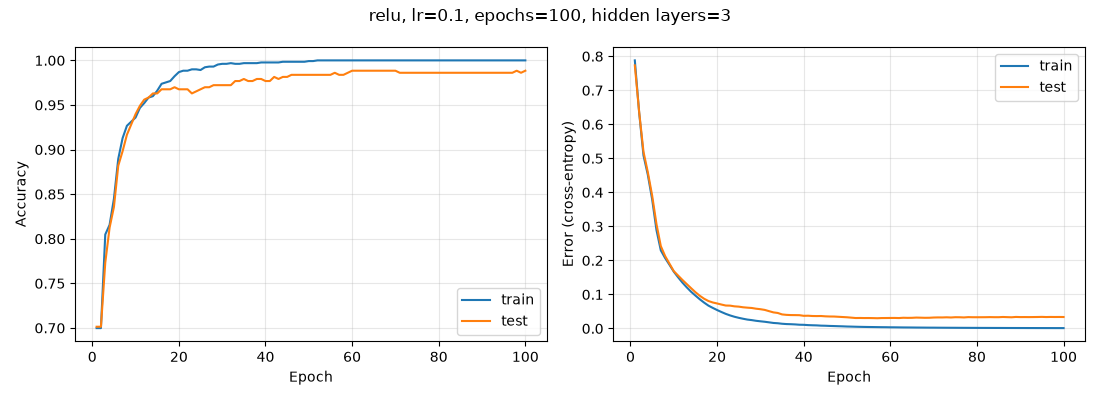
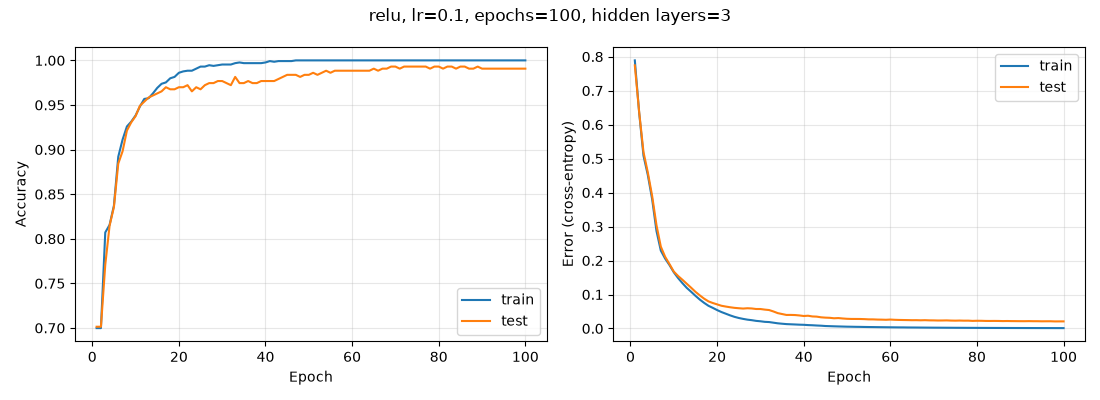
Update to repo

diff --git a/neural_net.py b/neural_net.py
@@ -1,26 +1,38 @@
 #####################################################################################################################
 #   Assignment 2: Neural Network Analysis
-#   Dataset: UCI Car Evaluation  (https://archive.ics.uci.edu/dataset/19/car+evaluation)
-#   Task:    multi-class classification (unacc / acc / good / vgood)
+#   This is a starter code in Python 3.6 for a neural network.
+#   You need to have numpy and pandas installed before running this code.
+#   You need to complete all TODO marked sections
+#   You are free to modify this code in any way you want, but need to mention it
+#       in the README file.
 #
-#   Usage:   python NeuralNet.py --data car.data --out results --seed 42
-#   See README.md for details and for the list of changes made to the starter code.
+#   Dataset: UCI Car Evaluation (https://archive.ics.uci.edu/dataset/19/car+evaluation)
+#   Usage:   python NeuralNet.py                      (loads the data from the public URL below)
+#            python NeuralNet.py /path/to/car.data    (optional: local file or other URL)
+#
 #####################################################################################################################
 
-import argparse
+
 import itertools
 import os
+import sys
 
 import matplotlib
-matplotlib.use("Agg")  # no display needed
+matplotlib.use("Agg")  # save figures to files; no display needed
 import matplotlib.pyplot as plt
 import numpy as np
 import pandas as pd
 from sklearn.metrics import log_loss
 from sklearn.model_selection import train_test_split
 from sklearn.neural_network import MLPClassifier
-from sklearn.preprocessing import StandardScaler
 
+# Public copy of the UCI Car Evaluation data file (no local path needed).
+DATA_URL = "https://raw.githubusercontent.com/SGcoder120/ML-assignment-2/refs/heads/master/car.data"
+OUT_DIR = "results"
+SEED = 42
+NEURONS_PER_LAYER = 16  # fixed number of neurons in every hidden layer
+
+# car.data has no header row, so the column names are supplied here.
 COLUMNS = ["buying", "maint", "doors", "persons", "lug_boot", "safety", "class"]
 
 # All six attributes are ordinal, so they are mapped to integers that preserve their order.
@@ -36,21 +48,15 @@ CLASS_ORDER = ["unacc", "acc", "good", "vgood"]
 
 
 class NeuralNet:
-    def __init__(self, dataFile, header=False, out_dir="results", seed=42,
-                 neurons_per_layer=16, test_size=0.25):
-        # The UCI car.data file has no header row, so column names are supplied here.
-        self.raw_input = pd.read_csv(dataFile, header=0 if header else None,
-                                     names=None if header else COLUMNS)
-        self.out_dir = out_dir
-        self.seed = seed
-        self.neurons_per_layer = neurons_per_layer
-        self.test_size = test_size
-        os.makedirs(os.path.join(out_dir, "per_model"), exist_ok=True)
+    def __init__(self, dataFile, header=True):
+        # header=False -> the file has no header row (true for the UCI car.data file)
+        if header:
+            self.raw_input = pd.read_csv(dataFile)
+        else:
+            self.raw_input = pd.read_csv(dataFile, header=None, names=COLUMNS)
+        os.makedirs(os.path.join(OUT_DIR, "per_model"), exist_ok=True)
 
-    # ------------------------------------------------------------------
-    # Pre-processing: nulls, integrity checks, categorical -> numeric,
-    # train/test split, standardization (scaler fitted on training data only).
-    # ------------------------------------------------------------------
+    # Pre-processing: null handling, integrity checks, categorical -> numerical, standardization.
     def preprocess(self):
         df = self.raw_input.copy()
 
@@ -72,118 +78,99 @@ class NeuralNet:
         if bad:
             raise ValueError(f"Unexpected class labels: {bad}")
 
-        # Categorical -> numerical.
+        # Categorical -> numerical (ordered integers; class label -> 0..3).
         for col, mapping in ORDINAL_MAP.items():
             df[col] = df[col].map(mapping).astype(float)
         df["class"] = df["class"].map({c: i for i, c in enumerate(CLASS_ORDER)})
 
-        X = df.drop(columns="class")
-        y = df["class"].astype(int)
-
-        # Stratified split because the classes are highly imbalanced (~70% 'unacc').
-        X_train, X_test, y_train, y_test = train_test_split(
-            X, y, test_size=self.test_size, random_state=self.seed, stratify=y)
-
-        # Standardization: fit on training data only to avoid leakage into the test set.
-        scaler = StandardScaler().fit(X_train)
-        self.X_train = scaler.transform(X_train)
-        self.X_test = scaler.transform(X_test)
-        self.y_train = y_train.to_numpy()
-        self.y_test = y_test.to_numpy()
+        # Standardization of the attributes (zero mean, unit variance); the class column is left as is.
+        features = df.columns[:-1]
+        df[features] = (df[features] - df[features].mean()) / df[features].std(ddof=0)
 
         self.processed_data = df
-        print(f"Train size: {len(self.y_train)}, test size: {len(self.y_test)}")
         print("Class distribution:", df["class"].map(dict(enumerate(CLASS_ORDER))).value_counts().to_dict())
         return 0
 
-    # ------------------------------------------------------------------
-    # Train and evaluate every hyperparameter combination.
-    # ------------------------------------------------------------------
+    # Train and evaluate models for all combinations of parameters.
+    # Outputs: train/test accuracy and error per model (table), history curves (plots).
     def train_evaluate(self):
+        ncols = len(self.processed_data.columns)
+        nrows = len(self.processed_data.index)
+        X = self.processed_data.iloc[:, 0:(ncols - 1)]
+        y = self.processed_data.iloc[:, (ncols-1)].astype(int)
+        # Stratified 75/25 split (classes are imbalanced), fixed seed for reproducibility.
+        X_train, X_test, y_train, y_test = train_test_split(
+            X, y, test_size=0.25, random_state=SEED, stratify=y)
+        X_train, X_test = X_train.to_numpy(), X_test.to_numpy()
+        y_train, y_test = y_train.to_numpy(), y_test.to_numpy()
+
+        # Below are the hyperparameters that you need to use for model evaluation
+        # You can assume any fixed number of neurons for each hidden layer.
+
         activations = ['logistic', 'tanh', 'relu']
         learning_rate = [0.01, 0.1]
-        max_iterations = [100, 200]  # epochs
+        max_iterations = [100, 200]  # also known as epochs
         num_hidden_layers = [2, 3]
 
+        # Create the neural network and keep track of the performance metrics.
         classes = np.arange(len(CLASS_ORDER))
         rows, histories = [], {}
-
         for act, lr, epochs, layers in itertools.product(
                 activations, learning_rate, max_iterations, num_hidden_layers):
-            key = (act, lr, epochs, layers)
-            model = MLPClassifier(
-                hidden_layer_sizes=(self.neurons_per_layer,) * layers,
-                activation=act, solver="sgd", learning_rate_init=lr,
-                random_state=self.seed)
-
+            model = MLPClassifier(hidden_layer_sizes=(NEURONS_PER_LAYER,) * layers,
+                                  activation=act, solver="sgd", learning_rate_init=lr,
+                                  random_state=SEED)
             hist = {"train_acc": [], "test_acc": [], "train_loss": [], "test_loss": []}
             for _ in range(epochs):
-                model.partial_fit(self.X_train, self.y_train, classes=classes)  # exactly one epoch
-                for split, X, y in (("train", self.X_train, self.y_train),
-                                    ("test", self.X_test, self.y_test)):
-                    proba = model.predict_proba(X)
-                    hist[f"{split}_acc"].append(float((proba.argmax(axis=1) == y).mean()))
-                    hist[f"{split}_loss"].append(float(log_loss(y, proba, labels=classes)))
-            histories[key] = hist
-
-            rows.append({
-                "activation": act, "learning_rate": lr, "epochs": epochs,
-                "hidden_layers": layers, "neurons_per_layer": self.neurons_per_layer,
-                "train_accuracy": hist["train_acc"][-1], "test_accuracy": hist["test_acc"][-1],
-                "train_error": hist["train_loss"][-1], "test_error": hist["test_loss"][-1],
-            })
+                model.partial_fit(X_train, y_train, classes=classes)  # exactly one epoch
+                for split, Xs, ys in (("train", X_train, y_train), ("test", X_test, y_test)):
+                    proba = model.predict_proba(Xs)
+                    hist[f"{split}_acc"].append(float((proba.argmax(axis=1) == ys).mean()))
+                    hist[f"{split}_loss"].append(float(log_loss(ys, proba, labels=classes)))
+            histories[(act, lr, epochs, layers)] = hist
+            rows.append({"activation": act, "learning_rate": lr, "epochs": epochs,
+                         "hidden_layers": layers, "neurons_per_layer": NEURONS_PER_LAYER,
+                         "train_accuracy": hist["train_acc"][-1], "test_accuracy": hist["test_acc"][-1],
+                         "train_error": hist["train_loss"][-1], "test_error": hist["test_loss"][-1]})
             print(f"{act:9s} lr={lr:<5} epochs={epochs:<4} layers={layers}  "
                   f"train_acc={rows[-1]['train_accuracy']:.4f} test_acc={rows[-1]['test_accuracy']:.4f} "
                   f"train_loss={rows[-1]['train_error']:.4f} test_loss={rows[-1]['test_error']:.4f}")
 
-        self.results = pd.DataFrame(rows)
-        self.histories = histories
-        self.results.to_csv(os.path.join(self.out_dir, "results_table.csv"), index=False)
+        # Table of results (error = cross-entropy loss).
+        results = pd.DataFrame(rows)
+        results.to_csv(os.path.join(OUT_DIR, "results_table.csv"), index=False)
         print("\n=== Results table (error = cross-entropy loss) ===")
-        print(self.results.round(4).to_string(index=False))
+        print(results.round(4).to_string(index=False))
 
-        self._plot_all(activations)
-        self._plot_each()
-        return 0
-
-    # ------------------------------------------------------------------
-    # Plotting
-    # ------------------------------------------------------------------
-    def _plot_all(self, activations):
-        """One figure per metric, split into one panel per activation function (the
-        assignment allows splitting a congested plot into 2-3 parts). Colour = (lr, layers)
-        combination, line style = epochs (solid 200, dashed 100); the same colour scheme is used in every panel."""
-        combos = list(itertools.product([0.01, 0.1], [2, 3], [100, 200]))
+        # Plot the model history. One figure per metric, split into three panels (one per
+        # activation function) so the 24 curves stay readable. Colour = (learning rate, layers);
+        # solid = 200 epochs, dashed = 100 epochs (same seed, so it traces the first 100 epochs).
+        combos = list(itertools.product(learning_rate, num_hidden_layers, max_iterations))
+        pairs = list(itertools.product(learning_rate, num_hidden_layers))
         cmap = plt.get_cmap("tab10")
-        pairs = list(itertools.product([0.01, 0.1], [2, 3]))
-        color = {(lr, l, e): cmap(pairs.index((lr, l))) for (lr, l, e) in combos}
         metrics = [("test_acc", "Test accuracy"), ("train_acc", "Training accuracy"),
                    ("test_loss", "Test error (cross-entropy)"), ("train_loss", "Training error (cross-entropy)")]
         for m, title in metrics:
             fig, axes = plt.subplots(1, 3, figsize=(20, 6), sharey=True)
             for ax, act in zip(axes, activations):
-                for (lr, layers, epochs) in combos:
-                    h = self.histories[(act, lr, epochs, layers)][m]
-                    # The 100-epoch run (dashed) uses the same seed as the 200-epoch run (solid),
-                    # so it traces the first 100 epochs of it.
-                    ax.plot(range(1, len(h) + 1), h, color=color[(lr, layers, epochs)],
-                            lw=3.2 if epochs == 200 else 1.3,
-                            alpha=0.45 if epochs == 200 else 1.0,
-                            zorder=2 if epochs == 200 else 3,
-                            ls="-" if epochs == 200 else "--",
+                for lr, layers, epochs in combos:
+                    h = histories[(act, lr, epochs, layers)][m]
+                    ax.plot(range(1, len(h) + 1), h, color=cmap(pairs.index((lr, layers))),
+                            lw=3.2 if epochs == 200 else 1.3, alpha=0.45 if epochs == 200 else 1.0,
+                            ls="-" if epochs == 200 else "--", zorder=2 if epochs == 200 else 3,
                             label=f"lr={lr}, layers={layers}, epochs={epochs}")
-                ax.set_title(f"{act}")
+                ax.set_title(act)
                 ax.set_xlabel("Epoch")
                 ax.grid(alpha=0.3)
             axes[0].set_ylabel(title)
             axes[-1].legend(fontsize=8, loc="best")
             fig.suptitle(f"{title} vs. epochs for all 24 models")
             fig.tight_layout()
-            fig.savefig(os.path.join(self.out_dir, f"history_{m}.png"), dpi=130)
+            fig.savefig(os.path.join(OUT_DIR, f"history_{m}.png"), dpi=130)
             plt.close(fig)
 
-    def _plot_each(self):
-        for (act, lr, epochs, layers), h in self.histories.items():
+        # Individual history plot for every model (accuracy and error vs. epochs, train and test).
+        for (act, lr, epochs, layers), h in histories.items():
             fig, (a1, a2) = plt.subplots(1, 2, figsize=(11, 4))
             x = range(1, epochs + 1)
             a1.plot(x, h["train_acc"], label="train"); a1.plot(x, h["test_acc"], label="test")
@@ -192,19 +179,16 @@ class NeuralNet:
             a2.set_xlabel("Epoch"); a2.set_ylabel("Error (cross-entropy)"); a2.legend(); a2.grid(alpha=0.3)
             fig.suptitle(f"{act}, lr={lr}, epochs={epochs}, hidden layers={layers}")
             fig.tight_layout()
-            fig.savefig(os.path.join(self.out_dir, "per_model", f"{act}_lr{lr}_ep{epochs}_L{layers}.png"), dpi=100)
+            fig.savefig(os.path.join(OUT_DIR, "per_model", f"{act}_lr{lr}_ep{epochs}_L{layers}.png"), dpi=100)
             plt.close(fig)
+
+        return 0
+
+
 
 
 if __name__ == "__main__":
-    parser = argparse.ArgumentParser(description="Neural network hyperparameter study on UCI Car Evaluation")
-    parser.add_argument("--data", default="car.data", help="path or URL to car.data")
-    parser.add_argument("--out", default="results", help="output directory")
-    parser.add_argument("--seed", type=int, default=42)
-    parser.add_argument("--neurons", type=int, default=16, help="neurons per hidden layer")
-    args = parser.parse_args()
-
-    neural_network = NeuralNet(args.data, out_dir=args.out, seed=args.seed,
-                               neurons_per_layer=args.neurons)
+    data_path = sys.argv[1] if len(sys.argv) > 1 else DATA_URL  # path or URL; nothing hard-coded locally
+    neural_network = NeuralNet(data_path, header=False)
     neural_network.preprocess()
     neural_network.train_evaluate()

diff --git a/README.md b/README.md
@@ -1,0 +1,49 @@
+# CS 4375 HW2 – Programming Part (Neural Networks)
+
+**Dataset:** UCI Car Evaluation – https://archive.ics.uci.edu/dataset/19/car+evaluation
+(1728 rows, 6 ordinal attributes, 4-class target: unacc / acc / good / vgood). The data file is not included in the submission.
+
+## Requirements
+Python 3, `numpy`, `pandas`, `scikit-learn`, `matplotlib` (see `requirements.txt`)
+Install with: `pip install -r requirements.txt`
+
+## How to run
+The program loads the data from a public URL by default (a copy of the UCI `car.data` file):
+https://raw.githubusercontent.com/SGcoder120/ML-assignment-2/refs/heads/master/car.data
+
+    pip install -r requirements.txt
+    python NeuralNet.py
+
+To use a local copy of `car.data` (or another URL) instead, pass it as the only argument:
+
+    python NeuralNet.py /path/to/car.data
+
+No local paths are hard-coded. An internet connection is needed when using the default URL. Output goes to a `results/` folder
+created in the current directory. Constants at the top of `NeuralNet.py` set the output folder, random seed (42) and neurons per hidden layer (16).
+
+## Outputs (in `results/`)
+- `results_table.csv` (also printed): hyperparameters, training/test accuracy, training/test error for all 24 models.
+- `history_test_acc.png`, `history_train_acc.png`, `history_test_loss.png`, `history_train_loss.png`: history of all 24 models,
+  split into three panels (one per activation function). Colour = (learning rate, #layers); solid = 200 epochs, dashed = 100 epochs.
+- `per_model/*.png`: accuracy and error vs. epochs (train and test) for each individual model.
+
+## Hyperparameters (all 3 x 2 x 2 x 2 = 24 combinations)
+activation ∈ {logistic, tanh, relu}; learning rate ∈ {0.01, 0.1}; epochs ∈ {100, 200}; hidden layers ∈ {2, 3}.
+
+## Changes to the starter code
+The starter's structure (`NeuralNet` class with `preprocess` and `train_evaluate`, the hyperparameter lists, and `train_test_split`) is kept. Modifications:
+- `car.data` has no header row, so the constructor is called with `header=False` and column names are supplied in code.
+- `preprocess` is filled in (nulls, integrity checks, ordinal encoding, standardization).
+- `train_evaluate` uses a stratified, seeded split (`test_size=0.25`, `random_state=42`), builds scikit-learn `MLPClassifier` models (SGD solver with default momentum, batch size 200, constant learning rate), and trains one epoch at a time with `partial_fit` so per-epoch train/test accuracy and loss can be recorded. It also writes the results table and plots.
+- The data path is read from an optional command-line argument and defaults to the public URL above.
+
+## Assumptions
+- Every hidden layer has 16 neurons (the assignment allows a fixed number).
+- All six attributes are ordinal and are encoded as ordered integers (e.g. low<med<high<vhigh; doors "5more"=5; persons "more"=6), then standardized (zero mean, unit variance) in `preprocess`, i.e. using statistics of the full dataset before the train/test split. Because the attributes have fixed small ranges, the effect on the test set is negligible.
+- 75/25 stratified train/test split (stratified because ~70% of cars are "unacc"), fixed seed 42. One run per configuration, so small differences between models are within seed noise.
+- "Error" is the multi-class cross-entropy (log loss) on the predicted probabilities; accuracy is the fraction correctly classified.
+- No missing values exist in this dataset; the code still drops null rows and verifies that all values are valid categories.
+- The 100-epoch and 200-epoch runs use the same seed, so a 100-epoch curve equals the first 100 epochs of the matching 200-epoch curve.
+
+## Brief report
+See `report.md`.
